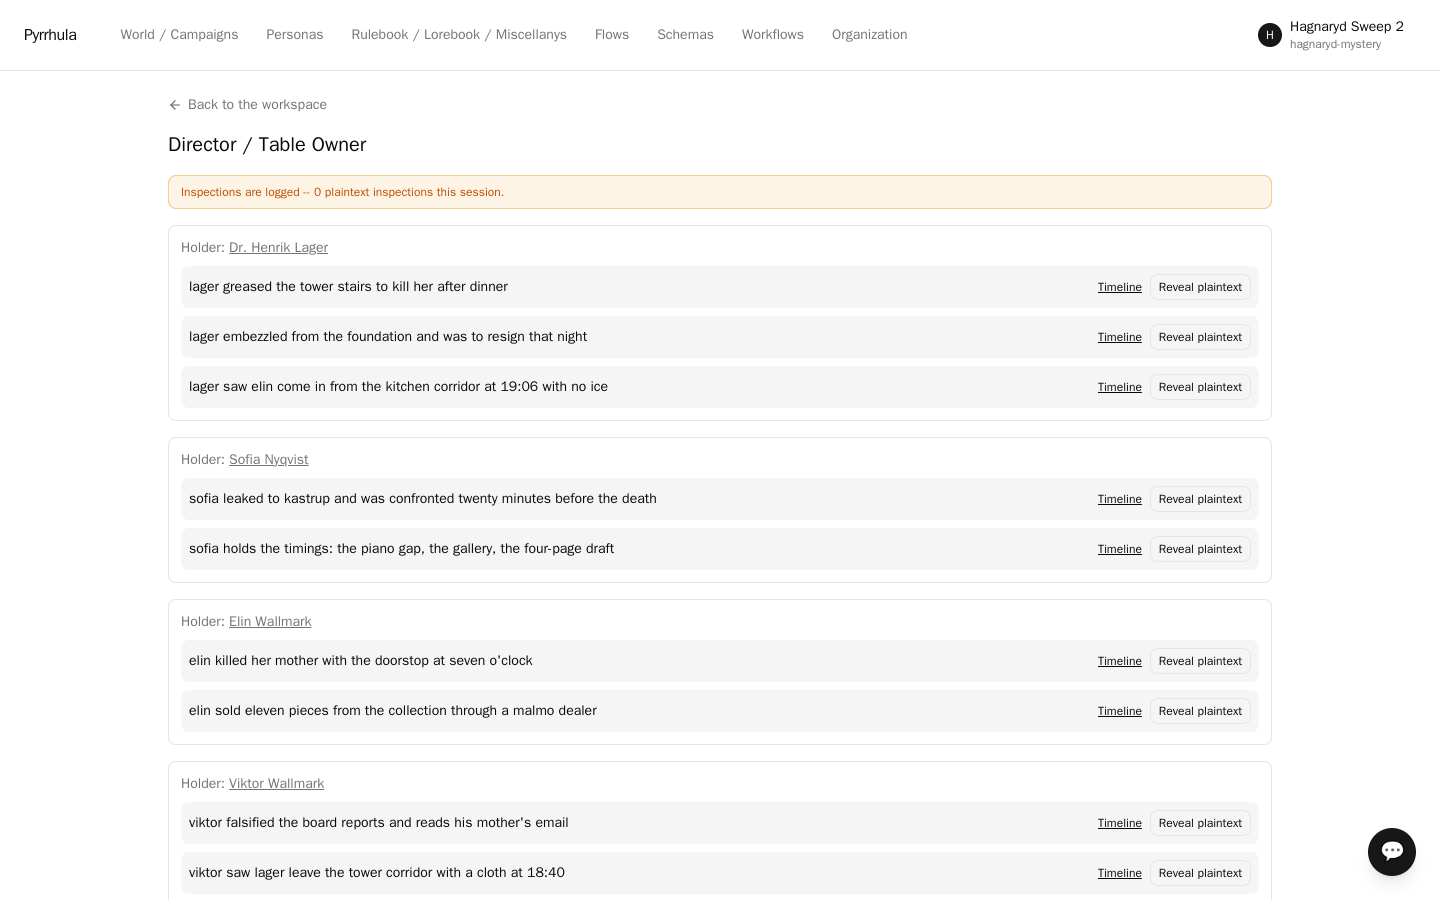
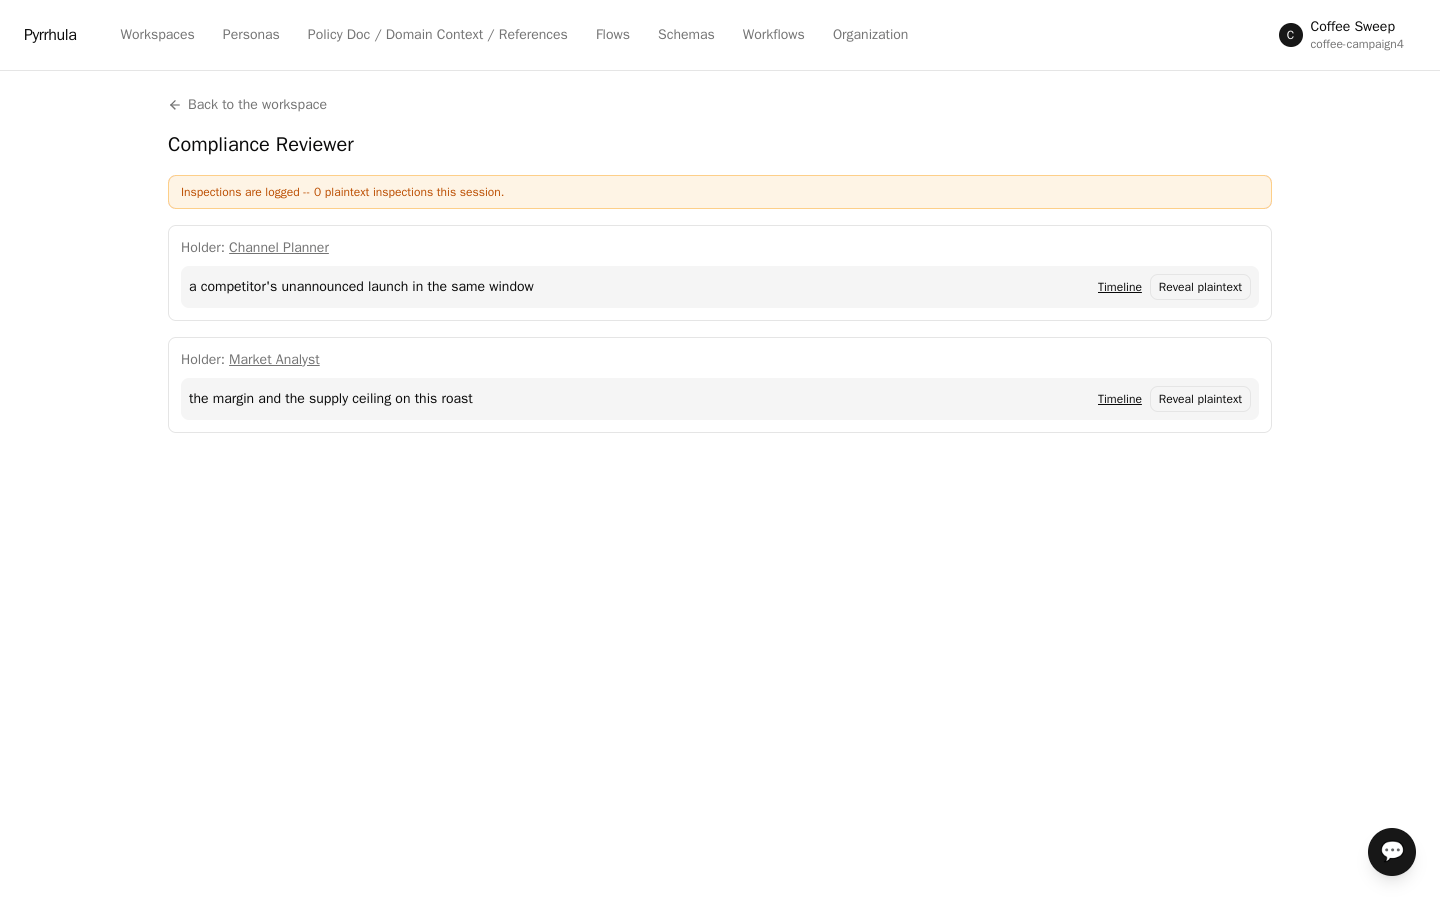
Let a degraded repo analysis be re-run; round two of the screenshots
The repo analysis refuses to keep a result in which every prose step fell back
(an assistant with no model profile, a provider outage) by raising -- and
`@idempotent` records that failure permanently, so every later "Analyze repos"
for the same content was refused before it ran. Fixing the assistant's model
changed nothing. The handler now clears a recorded failure for its key before
each attempt; nothing before the summaries has a side effect a re-run could
double. Regression test drives the handler twice through a stub that fails
once.

Screenshots: the Hägnaryd shots are from an English run of the interview and
no longer show the director view, which names the culprit; the README's
director-view tile is the coffee campaign's instead (two confidential facts,
no plot to spoil). New: the export page (portability), the repo knowledge
graph (delegation), and the delegation page says the assistant writes the
analysis.

diff --git a/packages/worker/tests/test_repo_analysis_retry.py b/packages/worker/tests/test_repo_analysis_retry.py
@@ -1,0 +1,74 @@
+"""A repo analysis that degraded to file listings refuses to be kept (it raises); the next
+"Analyze repos" for the same content must then actually run, not hit the recorded
+failure. Before this, fixing the assistant's model changed nothing: the idempotency row
+stayed `failed` and every retry was refused at the door."""
+
+from __future__ import annotations
+
+import uuid
+from typing import Any
+
+import pytest
+
+from core.actions.idempotency import OperationFailedError, idempotent
+from core.tenancy.seed import seed_dev_tenant
+from worker import repo_analysis
+
+
+class _Repo:
+    key = "demo"
+    default_branch = "main"
+
+
+class _Store:
+    def __init__(self, _root: object) -> None:
+        pass
+
+    async def head_sha(self, _skey: str, _branch: str) -> str:
+        return "abc123"
+
+    async def read_tree(self, _skey: str, **_kw: Any) -> dict[str, str]:
+        return {"README.md": "# demo"}
+
+
+async def test_a_degraded_analysis_can_be_rerun(
+    db_available: None, monkeypatch: pytest.MonkeyPatch
+) -> None:
+    tenant_id, _owner, workspace_id = await seed_dev_tenant(slug=f"ra-{uuid.uuid4().hex[:8]}")
+    attempts = 0
+
+    @idempotent(key_fn=repo_analysis._analysis_job_key)
+    async def fake_run(*, tenant_id: uuid.UUID, **kw: Any) -> dict[str, Any]:
+        nonlocal attempts
+        attempts += 1
+        if attempts == 1:
+            raise RuntimeError("repo analysis produced no model-written summaries")
+        return {"attempt": attempts}
+
+    async def fake_get_repo(_tenant: uuid.UUID, _rid: uuid.UUID) -> _Repo:
+        return _Repo()
+
+    monkeypatch.setattr(repo_analysis, "_run_analysis", fake_run)
+    monkeypatch.setattr(repo_analysis, "get_repo", fake_get_repo)
+    monkeypatch.setattr(repo_analysis, "GitStore", _Store)
+    monkeypatch.setattr(repo_analysis, "default_git_root", lambda: "/nonexistent")
+
+    payload = {
+        "tenant_id": str(tenant_id),
+        "workspace_id": str(workspace_id),
+        "repo_ids": [str(uuid.uuid4())],
+    }
+    with pytest.raises(RuntimeError):
+        await repo_analysis.handle_analyze_workspace_repos(payload)
+
+    # The second request for the same content runs again instead of being refused.
+    try:
+        result = await repo_analysis.handle_analyze_workspace_repos(payload)
+    except OperationFailedError as exc:  # pragma: no cover - the regression
+        raise AssertionError(f"retry was refused: {exc}") from exc
+    assert result == {"attempt": 2}
+    assert attempts == 2
+
+    # A good result is then cached as before.
+    assert await repo_analysis.handle_analyze_workspace_repos(payload) == {"attempt": 2}
+    assert attempts == 2

diff --git a/packages/worker/repo_analysis.py b/packages/worker/repo_analysis.py
@@ -22,7 +22,7 @@ import structlog
 from pydantic import BaseModel
 
 from adapters.mcp.git_store import GitStore, GitStoreError, default_git_root
-from core.actions.idempotency import idempotent
+from core.actions.idempotency import clear_failed_operation, idempotent
 from core.agents.assistant import ensure_workspace_assistant
 from core.agents.authoring import get_agent, resolve_connection_api_key
 from core.agents.models import Agent
@@ -396,6 +396,15 @@ async def handle_analyze_workspace_repos(payload: dict[str, Any]) -> dict[str, A
     if not repo_keys:
         raise ValueError("none of the requested repos are readable in the hosted store")
 
+    # `@idempotent` records a failure permanently, so the degraded analysis that
+    # `_run_analysis` refuses to keep (every prose step fell back) would otherwise block
+    # every later "Analyze repos" for the same content -- fixing the assistant's model
+    # changed nothing, because the retry never ran. Nothing before the summaries has a
+    # side effect that a re-run could double (ingestion is a no-op per unchanged SHA), so
+    # a recorded failure for this key is cleared before each attempt.
+    await clear_failed_operation(
+        tenant_id, _analysis_job_key(workspace_id=workspace_id, head_shas=head_shas)
+    )
     return await _run_analysis(
         tenant_id=tenant_id,
         workspace_id=workspace_id,

diff --git a/README.md b/README.md
@@ -50,7 +50,7 @@ managed by Pyrrhula. One product, one codebase.
 
 <table>
 <tr>
-<td><a href="docs/images/director-view.png"><img src="docs/images/director-view.png" alt="The director view: secrets grouped by holder, plaintext only on an audited click"></a><br><sub>Secrets by holder; every plaintext look is an audit row</sub></td>
+<td><a href="docs/images/director-view.png"><img src="docs/images/director-view.png" alt="The director view: confidential facts grouped by the participant that holds each, plaintext only on an audited click"></a><br><sub>Confidential facts by holder; every plaintext look is an audit row</sub></td>
 <td><a href="docs/images/engine-roll.png"><img src="docs/images/engine-roll.png" alt="Engine rolls rendered from the record inside a transcript"></a><br><sub>Dice executed in code, rendered from the record</sub></td>
 </tr>
 <tr>

diff --git a/docs/delegation.md b/docs/delegation.md
@@ -15,6 +15,14 @@ that renders `work_item_status.changes_requested` as "Changes Requested".
 
 ![The end of the loop: the reviewer's verdict, the merge order, and the preview link](images/session-review-merge.png)
 
+Before a bench plans against a repository it has never seen, **Analyze repos** (on the
+workspace's repo-graph page) reads the hosted checkout and writes what the repository
+achieves — and how several repositories relate — into workspace knowledge, so the
+planning phases retrieve it like any other source. The analysis is written by the
+workspace assistant's model, so that persona needs a model profile first.
+
+![The repo knowledge graph of one repository: its parts and what implements what, with the written overview below](images/repo-graph.png)
+
 ## The four jobs
 
 | Job | What it does |

diff --git a/docs/portability.md b/docs/portability.md
@@ -8,6 +8,8 @@ It is a plain ZIP — `manifest.json`, JSON for objects, JSONL for logs, Markdow
 bodies. Unzip one and read it. Entry bodies are separate `.md` files on purpose, so a
 bundle diffs in git, which is a real workflow for anyone authoring rules or lore.
 
+![The export page: participant, full or sanitised visibility of secrets; what to include; optional password encryption](images/export-import.png)
+
 ## What travels
 
 | Section | Contents |
